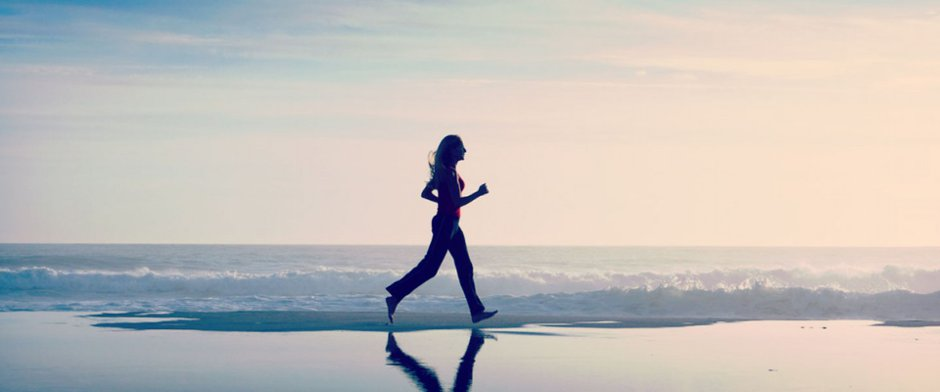
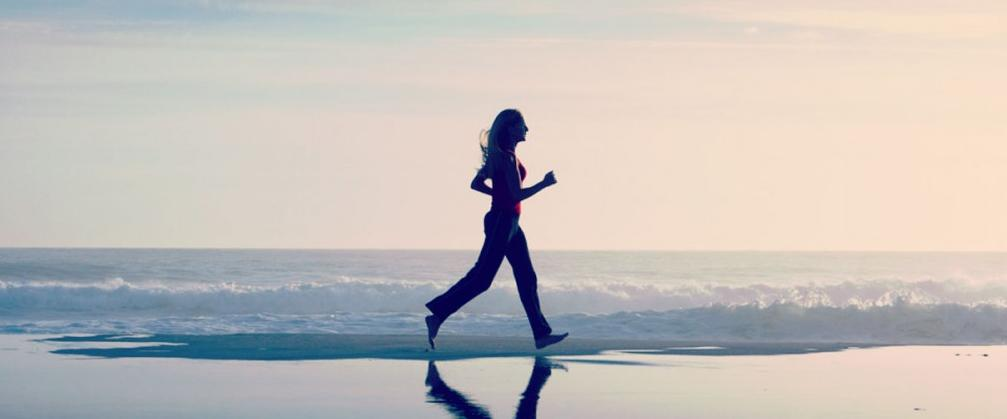
kinda fixed carousel's photos to be better responsive, changed call us number to mine

diff --git a/index.html b/index.html
@@ -192,45 +192,37 @@
             </div><!--end alert-->
             <!--visible only on small devices-->
             <div class="well well-sm visible-xs">
-                <a href="tel:+306947278406" class="btn btn-lg btn-block btn-default" ><span class="glyphicon glyphicon-phone"></span> Call Us!</a>
+                <a href="tel:+306977335435" class="btn btn-lg btn-block btn-default" ><span class="glyphicon glyphicon-phone"></span> Call Us!</a>
             </div><!-- end small-well-->
 
-            <div class="well mywell">
-                <!--<div class="page-header">
-                    <h1>Book a room! <small>Subheader text here for further details.</small></h1>
-                </div>--><!-- end of page-header-->
-                <div class="col-lg-12">
-                <form>
-                    <b><span style="color:#FFF">Reservations</span></b>
-                    <input id="datetimepicker" type="text" placeholder=" Arrival">
-                    <input type="number" placeholder=" Adults">
-                    <input type="number" placeholder=" Children">
-                    <input type="number" placeholder=" nights">
-                    <a href="" id="myAlert" class="btn btn-lg btn-primary">Check availability</a>
-                </form>
-                </div>
-                <!--<p class="lead">Here goes some really good text that will keep visitor's interest. It's very important
-                so you can convice him to dig deeper into your website!</p>-->
+            <!--<div class="well mywell">-->
+                <!--&lt;!&ndash;<div class="page-header">-->
+                    <!--<h1>Book a room! <small>Subheader text here for further details.</small></h1>-->
+                <!--</div>&ndash;&gt;&lt;!&ndash; end of page-header&ndash;&gt;-->
+                <!--<div class="col-lg-12">-->
+                <!--<form>-->
+                    <!--<b><span style="color:#FFF">Reservations</span></b>-->
+                    <!--<input id="datetimepicker" type="text" placeholder=" Arrival">-->
+                    <!--<input type="number" placeholder=" Adults">-->
+                    <!--<input type="number" placeholder=" Children">-->
+                    <!--<input type="number" placeholder=" nights">-->
+                    <!--<a href="" id="myAlert" class="btn btn-lg btn-primary">Check availability</a>-->
+                <!--</form>-->
+                <!--</div>-->
+                <!--&lt;!&ndash;<p class="lead">Here goes some really good text that will keep visitor's interest. It's very important-->
+                <!--so you can convice him to dig deeper into your website!</p>&ndash;&gt;-->
 
 
-                <!--<a href="" class="btn btn-lg btn-link">A Big Button for fun</a>-->
-            </div><!--end of well-->
+                <!--&lt;!&ndash;<a href="" class="btn btn-lg btn-link">A Big Button for fun</a>&ndash;&gt;-->
+            <!--</div>&lt;!&ndash;end of well&ndash;&gt;-->
         </div><!--end of col-12-->
     </div><!--end of bigCallout-->
 
 
     <div class="row" id="welcome">
         <h1 class="header">Welcome to Pegasus Studios!</h1>
-        <p id="welcomeText">Welcome to the Pegasus studios website. The Pegasus are family run apartments which have been in Stalis for many
-            years. Situated just 20 metres from Stalis' large sandy beach and clear blue sea, Pegasus is ideal for seaside
-            holidays. You'll find everything you need in Stalis for shopping and fun. If you choose to go further afield there
-            are lots of car hire rentals to offer reasonably priced vehicles or if you prefer organised trips there are lots
-            of local travel agents. Stalis has something for everyone, Cretan tavernas that serve traditional greek food and
-            a busy nightlife with plenty of bars and clubs, all of which are close on hand to the Pegasus Studios. There are
-            also plenty of mini-markets close by for any little thing you need. From Stalis it's easy to visit the neighbouring
-            towns of Malia and Herssonisos – either by bus, car or foot. Lovers of traditional life and architecture will
-            discover images of Cretan life all over the island of Crete - whatever your interests, remember that Stalis is
-            within easy reach of most of the islands attractions and its best beaches.</p>
+        <p id="welcomeText" class="visible-sm visible-md visible-lg">Welcome to the Pegasus studios website. The Pegasus are family run apartments which have been in Stalis for many
+            years. .</p>
         <hr>
     </div>
 
@@ -246,12 +238,10 @@
                     <div class="tab-pane active" id="tab1">
                         <h4><span class="glyphicon glyphicon-map-marker"></span> Our Location <small>right next to the beach!</small></h4>
                         <iframe src="https://www.google.com/maps/embed?pb=!1m18!1m12!1m3!1d2586.579422623451!2d25.433876!3d35.292415!2m3!1f0!2f0!3f0!3m2!1i1024!2i768!4f13.1!3m3!1m2!1s0x149a64f3d89b3fb7%3A0xb271ad4a272a52c0!2sPegasus+Studios!5e1!3m2!1sel!2sgr!4v1426363397321&maptype=satellite" width="100%" height="200" frameborder="0" style="border:0"></iframe>
-                        <p>Lorem ipsum dolor sit amet, consectetur adipisicing elit. Aut doloribus excepturi omnis quo sequi?
-                            Adipisci dolore inventore iusto modi neque optio pariatur praesentium quae, tempore tenetur? Aperiam nostrum possimus sunt.</p>
-                        <p>Lorem2 ipsum dolor sit amet, consectetur adipisicing elit. Aut doloribus excepturi omnis quo sequi? Adipisci dolore inventore
-                            iusto modi neque optio pariatur praesentium quae, tempore tenetur? Aperiam nostrum possimus sunt. Adipisci dolore inventore
-                            iusto modi neque optio pariatur praesentium quae, tempore tenetur? Aperiam nostrum possimus sunt. Adipisci dolore inventore
-                            iusto modi neque optio pariatur praesentium quae, tempore tenetur? Aperiam nostrum possimus sunt.</p>
+                        <p>Situated just 20 metres from Stalis' large sandy beach and clear blue sea,  From Stalis it's easy to visit the neighbouring
+                           towns of Malia and Herssonisos – either by bus, car or foot. Lovers of traditional life and architecture will
+                           discover images of Cretan life all over the island of Crete - whatever your interests, remember that Stalis is
+                           within easy reach of most of the islands attractions and its best beaches</p>
                     </div><!--end of tab-pane-->
                     <div class="tab-pane" id="tab2">
                         <h4>A Left Floated Picture <small><a target="blank" class="weather" style="display:inline; text-decoration: none;" href="http://www.weather.gr/en/">weather forecast by weather.gr</a>
@@ -259,7 +249,7 @@
                         <!--<img src="http://www.placehold.it/140" alt="placehold" class="thumbnail pull-left">-->
                         <iframe class="weather" scrolling="no" frameborder="0" allowtransparency="true" src="http://www.weather.gr/en/widgets/weather_w3.aspx?p=15686" style="width: 300px; height: 183px"></iframe>
                         <p>Lorem ipsum dolor sit amet, consectetur adipisicing elit. Aut doloribus excepturi omnis quo sequi?
-                            Adipisci dolore inventore iusto modi neque optio pariatur praesentium quae, tempore tenetur? Aperiam nostrum possimus sunt.</p>
+                           Adipisci dolore inventore iusto modi neque optio pariatur praesentium quae, tempore tenetur? Aperiam nostrum possimus sunt.</p>
 
                         <hr>
 
@@ -285,10 +275,11 @@
         <div class="col-sm-6">
             <h3>Info about the Area</h3>
             <img src="images/Stalis.jpg" alt="Mochos Square Picture" style="border-style: solid; float: right; width: 98%; height: 130px; margin-right:10px;margin-left:10px;margin-bottom:10px;">
-            <p>Lorem ipsum dolor sit amet, consectetur adipisicing elit. Amet error esse facilis iusto nihil praesentium soluta totam unde?
-               Adipisci dignissimos iure nostrum optio quis, reiciendis voluptatibus! Aliquam consequatur doloremque illo. Lorem ipsum dolor
-               sit amet, consectetur adipisicing elit. Amet error esse facilis iusto nihil praesentium soluta totam unde?
-               Adipisci dignissimos iure nostrum optio quis, reiciendis voluptatibus! Aliquam consequatur doloremque illo</p>
+            <p>Pegasus is ideal for seaside holidays. You'll find everything you need in Stalis for shopping and fun. If you choose to go further afield there
+               are lots of car hire rentals to offer reasonably priced vehicles or if you prefer organised trips there are lots
+               of local travel agents. Stalis has something for everyone, Cretan tavernas that serve traditional greek food and
+               a busy nightlife with plenty of bars and clubs, all of which are close on hand to the Pegasus Studios. There are
+               also plenty of mini-markets close by for any little thing you need.</p>
 
             <h4>Places you can Visit</h4>
 

diff --git a/includes/css/styles.css b/includes/css/styles.css
@@ -226,15 +226,15 @@ body {
 }
 
 #slide1 {
-    background: url('../../images/slide1_medium.jpg') top left no-repeat;
+    background: url('../../images/slide1_large.jpg') top left no-repeat;
 }
 
 #slide2 {
-    background: url('../../images/slide2_medium.jpg') top left no-repeat;
+    background: url('../../images/slide2_large.jpg') top left no-repeat;
 }
 
 #slide3 {
-    background: url('../../images/slide3_medium.jpg') top left no-repeat;
+    background: url('../../images/slide3_large.jpg') top left no-repeat;
 }
 
 
@@ -337,6 +337,43 @@ body {
 
 /* Portrait & landscape phone */
 @media (max-width: 480px) {
+
+    .carousel-indicators {
+        bottom: 0px!important;
+    }
+
+    .carousel-caption {
+        bottom: 0px!important;
+    }
+
+    .carousel-caption {
+        font-size: 12px;
+    }
+
+    .carousel-caption h4 {
+        font-size: 14px;
+    }
+
+    #myCarousel .item{
+        height: 180px;
+    }
+
+    #portegoCarousel .item {
+        height: 180px;
+    }
+
+    #slide1 {
+        background: url('../../images/slide1_xs.jpg') center;
+    }
+
+    #slide2 {
+        background: url('../../images/slide2_xs.jpg') center;
+    }
+
+    #slide3 {
+        background: url('../../images/slide3_xs.jpg') center;
+    }
+
     .thumbnail .price {
         font-size: 14px;
     }
@@ -366,12 +403,6 @@ body {
         font-size: 55px;
     }
 
-}
-
-
-/* Landscape phone to portrait tablet */
-@media (max-width: 767px) {
-
     .carousel-caption {
         font-size: 16px;
     }
@@ -381,23 +412,29 @@ body {
     }
 
     #myCarousel .item{
-        height: 310px;
+        height: 330px;
     }
 
     #portegoCarousel .item {
-        height: 310px;
+        height: 330px;
     }
+
     #slide1 {
-        background: url('../../images/slide1_medium.jpg') top left no-repeat;
+        background: url('../../images/slide1_sm.jpg') center no-repeat;
     }
 
     #slide2 {
-        background: url('../../images/slide2_medium.jpg') top left no-repeat;
+        background: url('../../images/slide2_sm.jpg') center no-repeat;
     }
 
     #slide3 {
-        background: url('../../images/slide3_medium.jpg') top left no-repeat;
+        background: url('../../images/slide3_sm.jpg') center no-repeat;
     }
+}
+
+/* Landscape phone to portrait tablet */
+@media (max-width: 767px) {
+
 
     #myAlert {
         float: none;
@@ -438,6 +475,30 @@ body {
         text-align: center;
     }
 
+    #something_else {
+        height: 400px;
+    }
+
+    #myCarousel .item{
+        height: 360px;
+    }
+
+    #portegoCarousel .item {
+        height: 360px;
+    }
+
+    #slide1 {
+        background: url('../../images/slide1_medium.jpg') center no-repeat;
+    }
+
+    #slide2 {
+        background: url('../../images/slide2_medium.jpg') top left no-repeat;
+    }
+
+    #slide3 {
+        background: url('../../images/slide3_medium.jpg') top left no-repeat;
+    }
+
     #portego1 {
         background: url('../../images/portego1_large.jpg') top left no-repeat;
     }
@@ -457,16 +518,16 @@ body {
 }
 
 /* Small desktop */
-@media (min-width: 992px) {
-    .mywell form input {
-        width: 110px;
-    }
+/*@media (min-width: 992px) {*/
+    /*.mywell form input {*/
+        /*width: 110px;*/
+    /*}*/
 
-    #myAlert {
-        width: auto;
-    }
+    /*#myAlert {*/
+        /*width: auto;*/
+    /*}*/
 
-}
+/*}*/
 
 @media (max-width: 1199px) {
     .navbar-brand {
@@ -518,6 +579,7 @@ body {
     #something_else {
         height: 400px;
     }
+
     #slide1 {
         background: url('../../images/slide1_large.jpg') top left no-repeat;
     }
